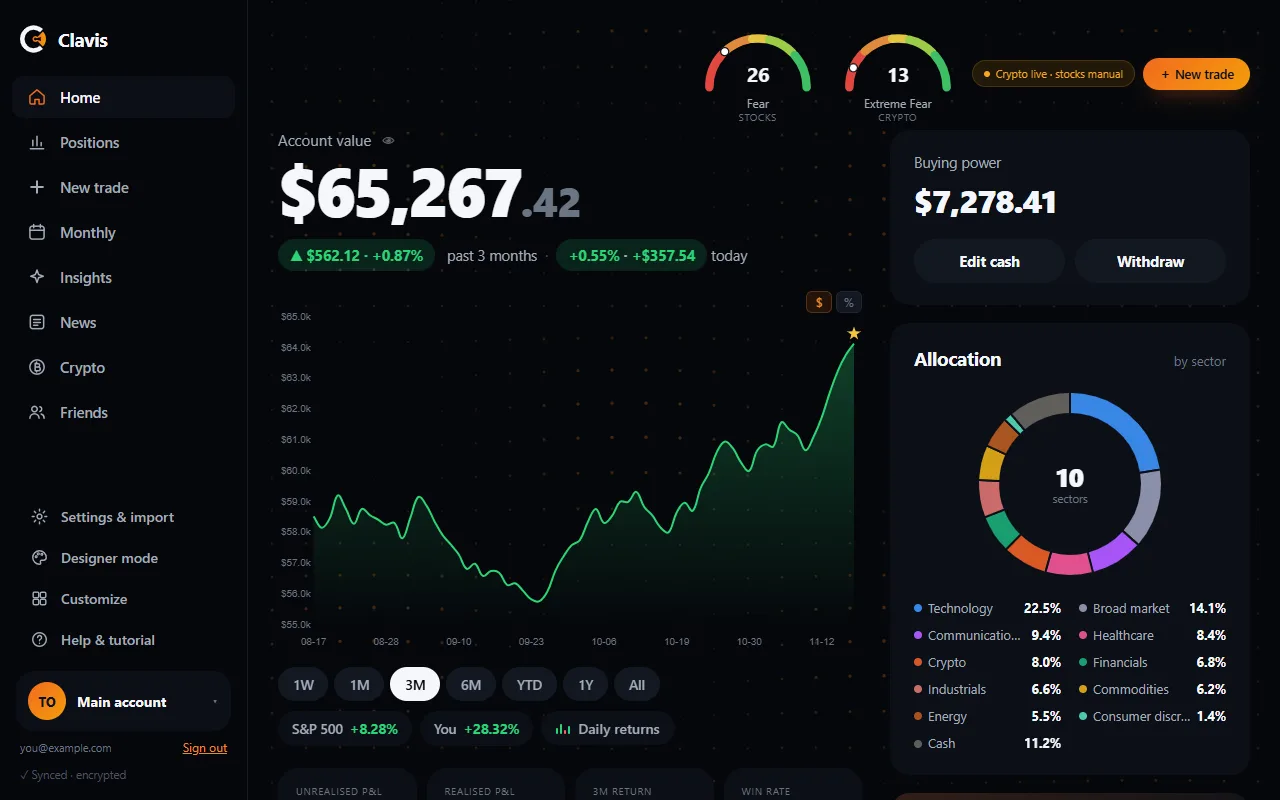
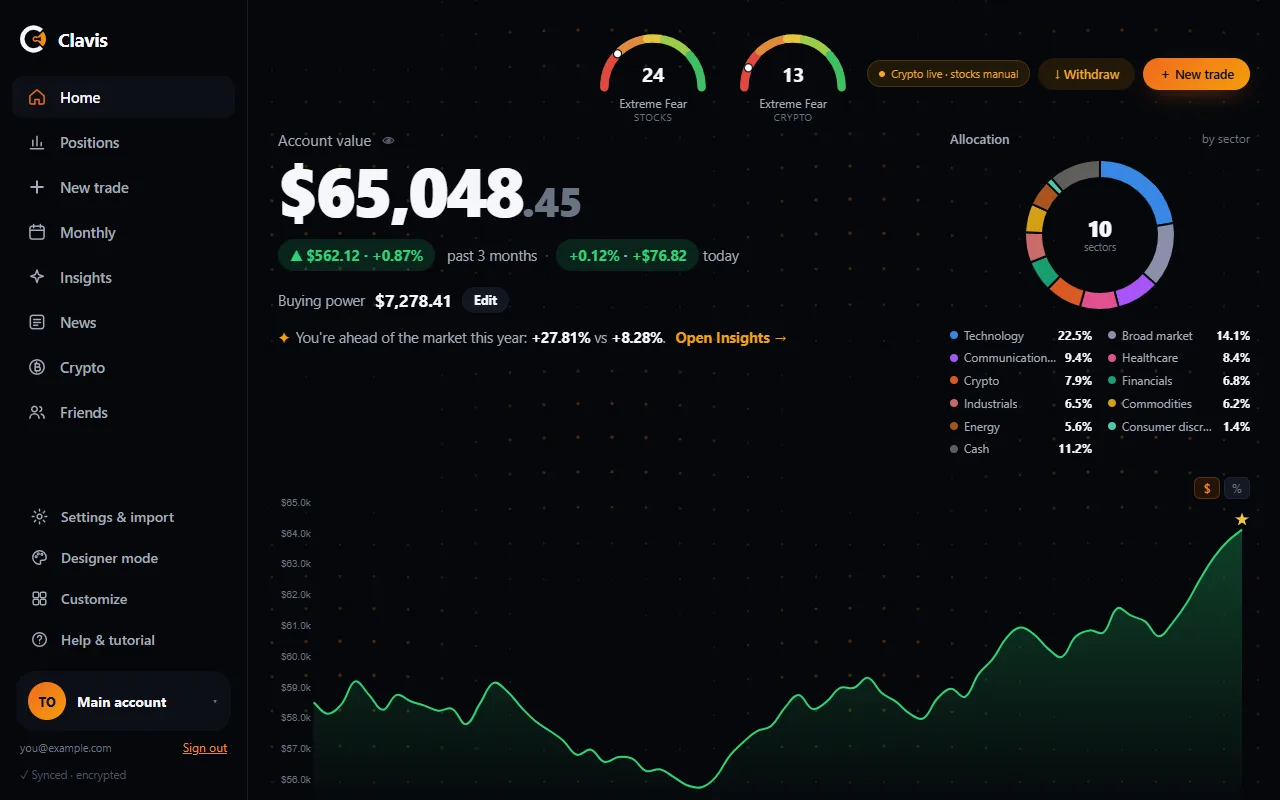
fix: Home's allocation back on the page, top right, no side column
Romy did not like buying power, allocation and the analyst as boxes down the
right. The allocation ring is back at the top right of the balance area, a
little smaller and without a box; buying power and the analyst's one line sit
under the balance; Withdraw is back at the top. Tutorial pictures re-taken.

diff --git a/index.html b/index.html
@@ -212,9 +212,10 @@
 
     <div id="home" class="page active">
       <!--
-        Clavis (November 2026): the balance, its chart and the holdings on the
-        left; buying power, allocation and the analyst on the right. On a phone
-        the right column folds in under the chart. Every id is as it was.
+        Clavis (November 2026): one column on the page itself, no boxes. The
+        balance on the left with buying power and the analyst's one line under
+        it; the allocation ring at the top right, as it was before; the chart
+        and its timeframes across the full width. Every id is as it was.
       -->
       <div class="topbar" id="homeTopbar">
         <div class="topbar-right">
@@ -222,12 +223,14 @@
                Filled by src/ui/views/sentimentGauges.js; hidden until it has a value. -->
           <div class="gauges" data-gauges style="display:none"></div>
           <div class="live-pill" id="livePill"><span class="live-dot"></span><span id="livePillTxt">Live prices on</span></div>
+          <!-- Money out of the broker: lowers the account, never the returns. -->
+          <button class="topbar-btn topbar-btn-warn" onclick="withdrawMoney()" title="Record money taken out of your broker">↓ Withdraw</button>
           <button class="topbar-btn topbar-newtrade" onclick="show('add')">＋ New trade</button>
         </div>
       </div>
-      <div class="home-grid">
-        <div class="home-main">
-          <div class="hero">
+      <div class="hero">
+        <div class="hero-top">
+          <div class="hero-left">
             <div class="hero-label">Account value
               <button class="eye-btn" id="hideAmounts" onclick="toggleAmounts()" title="Hide amounts" aria-label="Hide amounts" aria-pressed="false">👁</button>
             </div>
@@ -237,74 +240,67 @@
               <span class="hp-sep" aria-hidden="true">·</span>
               <span class="hero-today"><span class="hp-pill hp-today"><span id="portfolioDailyPct">—</span> · <span id="portfolioDailyAmt">—</span></span><span class="hp-lbl">today</span></span>
             </div>
-            <div class="curve-wrap">
-              <!-- Dollars, or the return since the account began: src/core/returnCurve.js. -->
-              <div class="curve-modes" role="group" aria-label="Chart in dollars or percent">
-                <button class="curve-mode active" data-mode="$" onclick="setCurveMode('$')" aria-pressed="true" title="Account value in $">$</button>
-                <button class="curve-mode" data-mode="%" onclick="setCurveMode('%')" aria-pressed="false" title="Return since the account began, in %">%</button>
-              </div>
-              <canvas id="curve" role="img" aria-label="Account value over time">Account value curve.</canvas></div>
-            <div class="tf-side">
-              <div class="tf-row" id="tfRow">
-                <div class="tf" data-tf="1W">1W</div>
-                <div class="tf" data-tf="1M">1M</div>
-                <div class="tf active" data-tf="3M">3M</div>
-                <div class="tf" data-tf="6M">6M</div>
-                <div class="tf" data-tf="YTD">YTD</div>
-                <div class="tf" data-tf="1Y">1Y</div>
-                <div class="tf" data-tf="All">All</div>
-              </div>
-              <div class="tf-extra">
-                <!-- You and the S&P 500 since 1 January. -->
-                <div class="bench">
-                  <div class="bench-row"><span class="bench-name" id="benchName">S&amp;P 500</span><span class="bench-val" id="benchVal">—</span></div>
-                  <div class="bench-row"><span class="bench-name">You</span><span class="bench-val" id="benchMine">—</span></div>
-                  <div class="bench-note" id="benchNote">Add a market data key to compare</div>
-                </div>
-                <!-- Every trading day's return, by year: src/ui/views/dailyLog.js. -->
-                <button class="dl-btn" id="dailyLogBtn" onclick="toggleDailyLog()" aria-haspopup="dialog" aria-expanded="false">
-                  <span class="dl-btn-ico" aria-hidden="true"><i></i><i></i><i></i><i></i></span>Daily returns
-                </button>
-                <div class="dl-pop" id="dailyLog" role="dialog" aria-label="Daily returns" hidden></div>
-              </div>
+            <div class="hero-cash">
+              <span class="hero-cash-lbl">Buying power</span>
+              <b id="cashDisplay">$0</b>
+              <button class="cash-edit" onclick="editCash()" title="Set the cash in your broker">Edit</button>
+            </div>
+            <div class="hero-analyst" id="homeAnalyst" hidden>
+              <span class="hero-analyst-k">✦</span><span id="homeAnalystText"></span>
+              <button type="button" class="hero-analyst-link" onclick="show('insights')">Open Insights →</button>
             </div>
           </div>
-          <div class="kpi-row">
-            <div class="kpi"><div class="kpi-lbl">Unrealised P&L</div><div class="kpi-val" id="kUnreal">+$0</div><div class="kpi-chg" id="kUnrealSub">0 open positions</div></div>
-            <div class="kpi"><div class="kpi-lbl">Realised P&L</div><div class="kpi-val" id="kRealised">+$0</div><div class="kpi-chg" id="kRealisedSub">0 closed positions</div></div>
-            <div class="kpi"><div class="kpi-lbl"><span id="kRetLbl">3M</span> return</div><div class="kpi-val" id="kReturn">+0%</div><div class="kpi-chg">vs start of period</div></div>
-            <div class="kpi"><div class="kpi-lbl">Win rate</div><div class="kpi-val" id="kWinRate">0%</div><div class="kpi-chg" id="kWinSub">0W · 0L closed</div></div>
-            <div class="kpi kpi-monthly-link" onclick="show('monthly')" title="Monthly P&amp;L"><div class="kpi-lbl">Monthly P&amp;L</div><div class="kpi-val" style="font-size:14px;color:var(--blue)">View →</div><div class="kpi-chg">by month</div></div>
-          </div>
-          <div class="card" id="homeHoldings">
-            <div class="card-lbl home-hold-head"><span>Holdings</span><span class="green live-note">● updating live</span></div>
-            <!-- Columns chosen by the user, IBKR-style (src/ui/views/holdingColumns.js). -->
-            <div id="homeColsBar"></div>
-            <div class="hc-picker" id="hcPicker-home" hidden></div>
-            <div id="homePositions"></div>
-          </div>
-        </div>
-        <aside class="home-rail">
-          <div class="card rail-cash">
-            <div class="rail-lbl">Buying power</div>
-            <div class="rail-cash-val"><span id="cashDisplay">$0</span></div>
-            <div class="rail-btns">
-              <button class="rail-btn cash-edit" onclick="editCash()" title="Set the cash in your broker">Edit cash</button>
-              <!-- Money out of the broker: lowers the account, never the returns. -->
-              <button class="rail-btn topbar-btn-warn" onclick="withdrawMoney()" title="Record money taken out of your broker">Withdraw</button>
-            </div>
-          </div>
-          <div class="card alloc" id="allocCard" tabindex="0" role="button" aria-haspopup="dialog" aria-label="Allocation — hover or press Enter to expand">
+          <div class="alloc" id="allocCard" tabindex="0" role="button" aria-haspopup="dialog" aria-label="Allocation — hover or press Enter to expand">
             <div class="alloc-lbl"><span>Allocation</span><span class="alloc-by">by sector</span></div>
             <div class="alloc-chart"><canvas id="sectorChart" role="img" aria-label="Share of the account held in each sector">Sector allocation.</canvas><div class="alloc-count" id="allocCount"></div></div>
             <div class="alloc-legend" id="sectorLegend"></div>
           </div>
-          <div class="card rail-analyst" id="homeAnalyst" hidden>
-            <div class="rail-kicker">✦ Your analyst</div>
-            <p id="homeAnalystText"></p>
-            <button type="button" class="rail-link" onclick="show('insights')">Open Insights →</button>
+        </div>
+        <div class="curve-wrap">
+          <!-- Dollars, or the return since the account began: src/core/returnCurve.js. -->
+          <div class="curve-modes" role="group" aria-label="Chart in dollars or percent">
+            <button class="curve-mode active" data-mode="$" onclick="setCurveMode('$')" aria-pressed="true" title="Account value in $">$</button>
+            <button class="curve-mode" data-mode="%" onclick="setCurveMode('%')" aria-pressed="false" title="Return since the account began, in %">%</button>
           </div>
-        </aside>
+          <canvas id="curve" role="img" aria-label="Account value over time">Account value curve.</canvas></div>
+        <div class="tf-side">
+          <div class="tf-row" id="tfRow">
+            <div class="tf" data-tf="1W">1W</div>
+            <div class="tf" data-tf="1M">1M</div>
+            <div class="tf active" data-tf="3M">3M</div>
+            <div class="tf" data-tf="6M">6M</div>
+            <div class="tf" data-tf="YTD">YTD</div>
+            <div class="tf" data-tf="1Y">1Y</div>
+            <div class="tf" data-tf="All">All</div>
+          </div>
+          <div class="tf-extra">
+            <!-- You and the S&P 500 since 1 January. -->
+            <div class="bench">
+              <div class="bench-row"><span class="bench-name" id="benchName">S&amp;P 500</span><span class="bench-val" id="benchVal">—</span></div>
+              <div class="bench-row"><span class="bench-name">You</span><span class="bench-val" id="benchMine">—</span></div>
+              <div class="bench-note" id="benchNote">Add a market data key to compare</div>
+            </div>
+            <!-- Every trading day's return, by year: src/ui/views/dailyLog.js. -->
+            <button class="dl-btn" id="dailyLogBtn" onclick="toggleDailyLog()" aria-haspopup="dialog" aria-expanded="false">
+              <span class="dl-btn-ico" aria-hidden="true"><i></i><i></i><i></i><i></i></span>Daily returns
+            </button>
+            <div class="dl-pop" id="dailyLog" role="dialog" aria-label="Daily returns" hidden></div>
+          </div>
+        </div>
+      </div>
+      <div class="kpi-row">
+        <div class="kpi"><div class="kpi-lbl">Unrealised P&L</div><div class="kpi-val" id="kUnreal">+$0</div><div class="kpi-chg" id="kUnrealSub">0 open positions</div></div>
+        <div class="kpi"><div class="kpi-lbl">Realised P&L</div><div class="kpi-val" id="kRealised">+$0</div><div class="kpi-chg" id="kRealisedSub">0 closed positions</div></div>
+        <div class="kpi"><div class="kpi-lbl"><span id="kRetLbl">3M</span> return</div><div class="kpi-val" id="kReturn">+0%</div><div class="kpi-chg">vs start of period</div></div>
+        <div class="kpi"><div class="kpi-lbl">Win rate</div><div class="kpi-val" id="kWinRate">0%</div><div class="kpi-chg" id="kWinSub">0W · 0L closed</div></div>
+        <div class="kpi kpi-monthly-link" onclick="show('monthly')" title="Monthly P&amp;L"><div class="kpi-lbl">Monthly P&amp;L</div><div class="kpi-val" style="font-size:14px;color:var(--blue)">View →</div><div class="kpi-chg">by month</div></div>
+      </div>
+      <div class="card" id="homeHoldings">
+        <div class="card-lbl home-hold-head"><span>Holdings</span><span class="green live-note">● updating live</span></div>
+        <!-- Columns chosen by the user, IBKR-style (src/ui/views/holdingColumns.js). -->
+        <div id="homeColsBar"></div>
+        <div class="hc-picker" id="hcPicker-home" hidden></div>
+        <div id="homePositions"></div>
       </div>
     </div>
 

diff --git a/styles/clavis.css b/styles/clavis.css
@@ -301,10 +301,6 @@ body.landing-open{overflow:hidden}
 
 /* ── Home ── */
 #homeTopbar{justify-content:flex-end;margin-bottom:6px}
-.home-grid{display:grid;grid-template-columns:minmax(0,1fr) 360px;gap:28px;align-items:start}
-.home-main{min-width:0}
-.home-rail{display:flex;flex-direction:column;gap:18px;position:sticky;top:18px}
-.home-rail .card{margin:0;padding:22px 24px}
 #home .hero{background:none;border:0;padding:0;margin:0 0 22px}
 #home .hero-label{display:flex;align-items:center;gap:6px;font-size:15px;text-transform:none;letter-spacing:0;color:var(--text2);margin:0 0 4px}
 #home .eye-btn{font-size:14px;opacity:.6}
@@ -367,30 +363,33 @@ body.landing-open{overflow:hidden}
 #positions[data-show="all"] .pos-closed-part{margin-top:28px}
 .section-title{font-size:13px;font-weight:600;letter-spacing:0.06em;color:var(--text3)}
 
-/* The right column of Home. */
-.rail-lbl{font-size:14.5px;color:var(--text2)}
-.rail-cash-val{font-size:32px;font-weight:800;letter-spacing:-0.035em;margin:6px 0 18px}
-#cashDisplay{color:var(--text)!important;font-size:inherit!important;font-weight:inherit!important}
-.rail-btns{display:grid;grid-template-columns:1fr 1fr;gap:10px}
-.rail-btn,.rail-btn.cash-edit,.rail-btn.topbar-btn-warn{border:0!important;border-radius:999px!important;background:var(--input)!important;color:var(--text)!important;
-  font:inherit;font-size:14.5px!important;font-weight:700!important;padding:12px 10px!important;cursor:pointer}
-.rail-btn:hover{filter:brightness(1.2)}
-#allocCard{display:block;margin:0;padding:22px 24px}
-#allocCard .alloc-lbl{display:flex;justify-content:space-between;align-items:baseline;font-size:19px;font-weight:700;text-transform:none;letter-spacing:-0.02em;color:var(--text)}
-.alloc-by{font-size:13px;font-weight:400;color:var(--text3);letter-spacing:0}
-#allocCard .alloc-chart{width:190px;height:190px;margin:18px auto 20px}
+/* The balance and the allocation share the top of Home, on the page itself:
+   no boxes. The ring sits at the top right, as before the November rework. */
+#home .hero-top{display:flex;align-items:flex-start;justify-content:space-between;gap:28px;flex-wrap:wrap;margin:0}
+.hero-left{min-width:0;flex:1 1 420px}
+.hero-cash{display:flex;align-items:center;gap:10px;margin-top:16px;font-size:14.5px;color:var(--text2)}
+.hero-cash b{color:var(--text);font-size:17px;font-weight:700}
+#home .hero-cash .cash-edit{border:0;border-radius:999px;background:var(--input);color:var(--text);font:inherit;font-size:12.5px;font-weight:700;padding:5px 12px;cursor:pointer}
+.hero-analyst{display:block;margin-top:14px;font-size:14.5px;color:var(--text2);max-width:560px;line-height:1.5}
+.hero-analyst[hidden]{display:none}
+.hero-analyst-k{color:var(--accent2);margin-right:6px}
+.hero-analyst b{color:var(--text)}
+.hero-analyst-link{background:none;border:0;padding:0;margin-left:6px;color:var(--accent2);font:inherit;font-weight:700;cursor:pointer}
+#allocCard{display:flex;flex-direction:column;align-items:center;gap:0;margin:0;padding:0;background:none;border:0;width:300px;flex:none}
+#allocCard .alloc-lbl{display:flex;justify-content:space-between;align-self:stretch;font-size:13px;font-weight:600;text-transform:none;letter-spacing:0;color:var(--text2)}
+.alloc-by{font-size:12px;font-weight:400;color:var(--text3)}
+#allocCard .alloc-chart{width:156px;height:156px;margin:10px auto 14px}
 .alloc-count{position:absolute;inset:0;display:grid;place-content:center;text-align:center;pointer-events:none;line-height:1.2}
-.alloc-count b{font-size:26px;font-weight:800;color:var(--text)}
-.alloc-count span{font-size:11.5px;color:var(--text3)}
-#allocCard .alloc-legend{display:grid;grid-template-columns:repeat(2,minmax(0,1fr));gap:9px 18px;max-width:none}
-#allocCard .alloc-row{min-width:0}
-#allocCard .alloc-row{font-size:13px;color:var(--text2)}
+.alloc-count b{font-size:22px;font-weight:800;color:var(--text)}
+.alloc-count span{font-size:10.5px;color:var(--text3)}
+#allocCard .alloc-legend{display:grid;grid-template-columns:repeat(2,minmax(0,1fr));gap:6px 16px;max-width:none;width:100%}
+#allocCard .alloc-row{display:flex;align-items:center;gap:6px;min-width:0;font-size:12px;color:var(--text2)}
 #allocCard .alloc-dot{border-radius:50%}
-#allocCard .alloc-pct{color:var(--text);font-weight:700}
-.rail-analyst{background:linear-gradient(160deg,color-mix(in srgb,var(--accent) 17%,var(--panel)),var(--panel) 62%)!important}
-.rail-kicker{color:var(--accent2);font-weight:800;letter-spacing:0.14em;font-size:12.5px;text-transform:uppercase}
-.rail-analyst p{font-size:16px;line-height:1.55;color:var(--text);margin:12px 0 14px}
-.rail-link{background:none;border:0;padding:0;color:var(--accent2);font:inherit;font-size:15px;font-weight:700;cursor:pointer}
+#allocCard .alloc-pct{margin-left:auto;color:var(--text);font-weight:700}
+@media (max-width:720px){
+  #allocCard{width:100%;margin-top:6px}
+  #allocCard .alloc-chart{width:150px;height:150px}
+}
 
 /* ── Monthly ── */
 #monthly .month-tabs{background:var(--panel);border:0;border-radius:999px;padding:4px;max-width:520px;margin-bottom:22px}
@@ -437,14 +436,10 @@ body.landing-open{overflow:hidden}
   .seg{display:grid;min-width:0;width:100%}
   /* Home: one column, in the mock-up's order. */
   #home.page.active{display:flex;flex-direction:column;gap:18px}
-  #home .home-grid,#home .home-main,#home .home-rail{display:contents}
   #home .hero{order:1;margin:0}
-  #home .rail-cash{order:2}
-  #home #homeTopbar{order:3;margin:0}
-  #home .kpi-row{order:4;margin:0}
-  #homeHoldings{order:5}
-  #home .rail-analyst{order:6}
-  #allocCard{order:7}
+  #home #homeTopbar{order:2;margin:0}
+  #home .kpi-row{order:3;margin:0}
+  #homeHoldings{order:4}
   #home .hero-value{font-size:48px}
   #home .curve-wrap{height:250px;margin-top:16px}
   #home .tf-side{flex-direction:column;align-items:stretch}
@@ -452,10 +447,6 @@ body.landing-open{overflow:hidden}
   #home .tf{background:none;text-align:center;padding:9px 0}
   #home .tf.active{background:var(--input);color:var(--text)}
   .tf-extra{justify-content:space-between}
-  .rail-cash{display:grid;grid-template-columns:1fr auto;align-items:center;column-gap:12px}
-  .rail-cash-val{margin:2px 0 0;font-size:26px}
-  .rail-cash .rail-btns{grid-row:1 / span 2;grid-column:2;grid-template-columns:1fr;gap:6px}
-  .rail-btn,.rail-btn.cash-edit,.rail-btn.topbar-btn-warn{padding:9px 16px!important;font-size:13px!important}
   /* Lists on a phone: the bubble, the name, the line, and the value over its return. */
   #homeHoldings .hc-table,#openPositions .hc-cards{min-width:0}
   #homeHoldings .hc-scroll{overflow:visible}

diff --git a/src/ui/views/tourShots.js b/src/ui/views/tourShots.js
@@ -11,50 +11,50 @@ export const SHOTS = {
       "account": [
         278,
         154,
-        584,
+        644,
         71
       ],
       "today": [
         556,
         239,
-        151,
+        143,
         32
       ],
       "graph": [
         278,
-        291,
-        584,
+        477,
+        972,
         360
       ],
       "timeframes": [
         278,
-        667,
+        854,
         382,
         34
       ],
       "dollarPct": [
-        806,
-        291,
+        1194,
+        477,
         56,
         22
       ],
       "allocation": [
-        890,
-        323,
-        360,
-        452
+        950,
+        130,
+        300,
+        328
       ],
       "daily": [
-        541,
-        711,
+        1117,
+        854,
         133,
         34
       ],
       "withdraw": [
-        1075,
-        239,
-        151,
-        44
+        1038,
+        58,
+        97,
+        32
       ],
       "newTrade": [
         1143,

diff --git a/src/ui/charts.js b/src/ui/charts.js
@@ -267,7 +267,7 @@ export function renderSectorChart(rows) {
         data: rows.map((r) => r.wedge ?? r.value),
         backgroundColor: rows.map((r) => r.colour),
         // The gap reads as separation between wedges without drawing a stroke.
-        borderColor: cssVar('--panel', '#131313'),
+        borderColor: cssVar('--bg', '#05070B'),
         borderWidth: 2,
         hoverOffset: 4,
       }],
